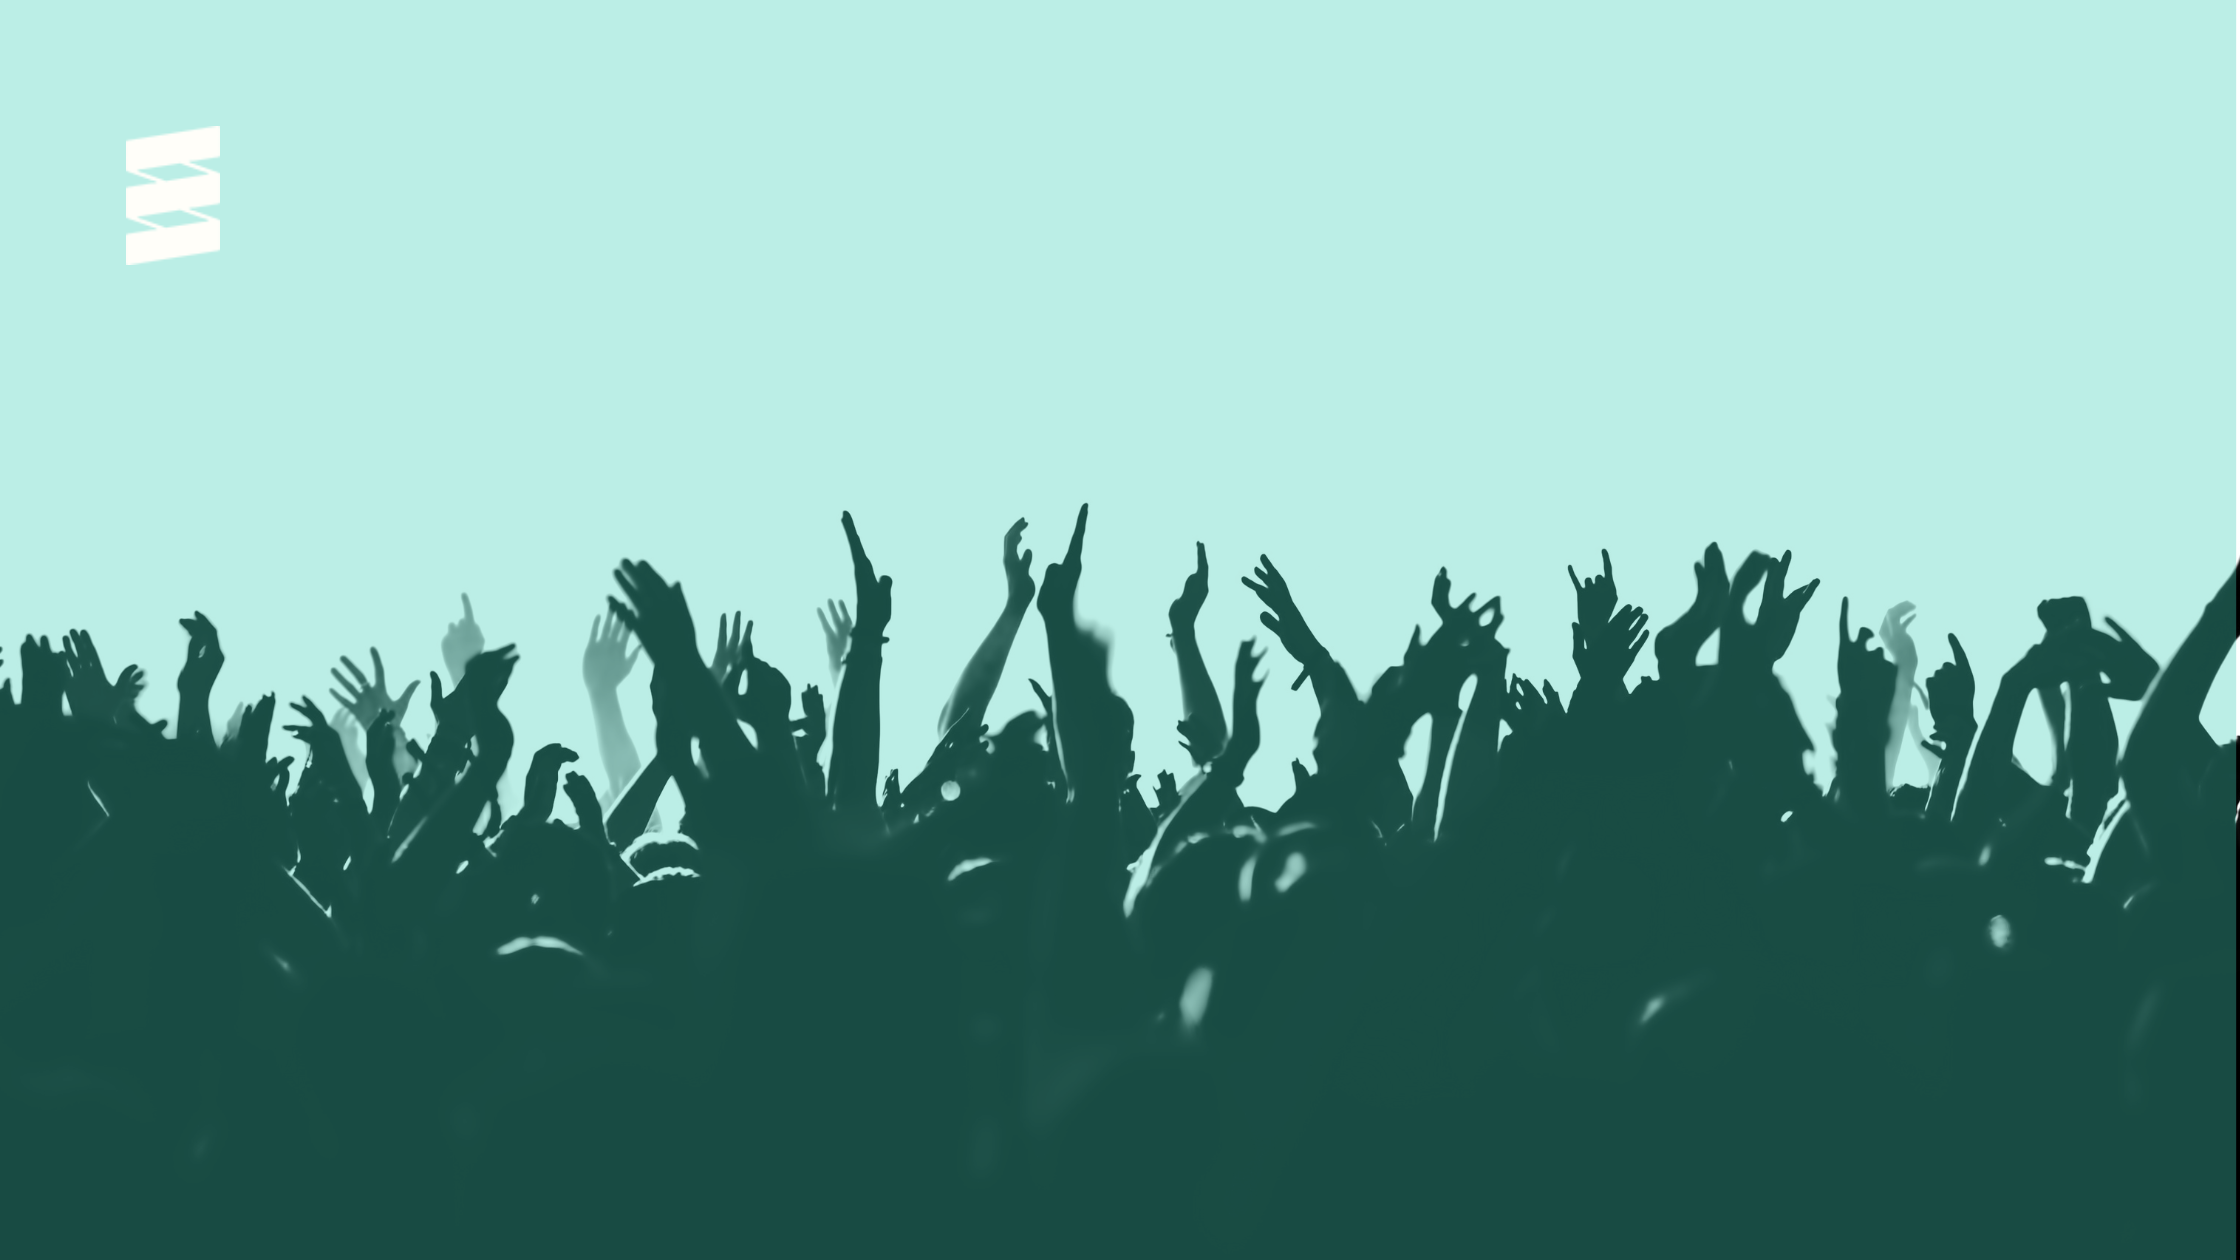
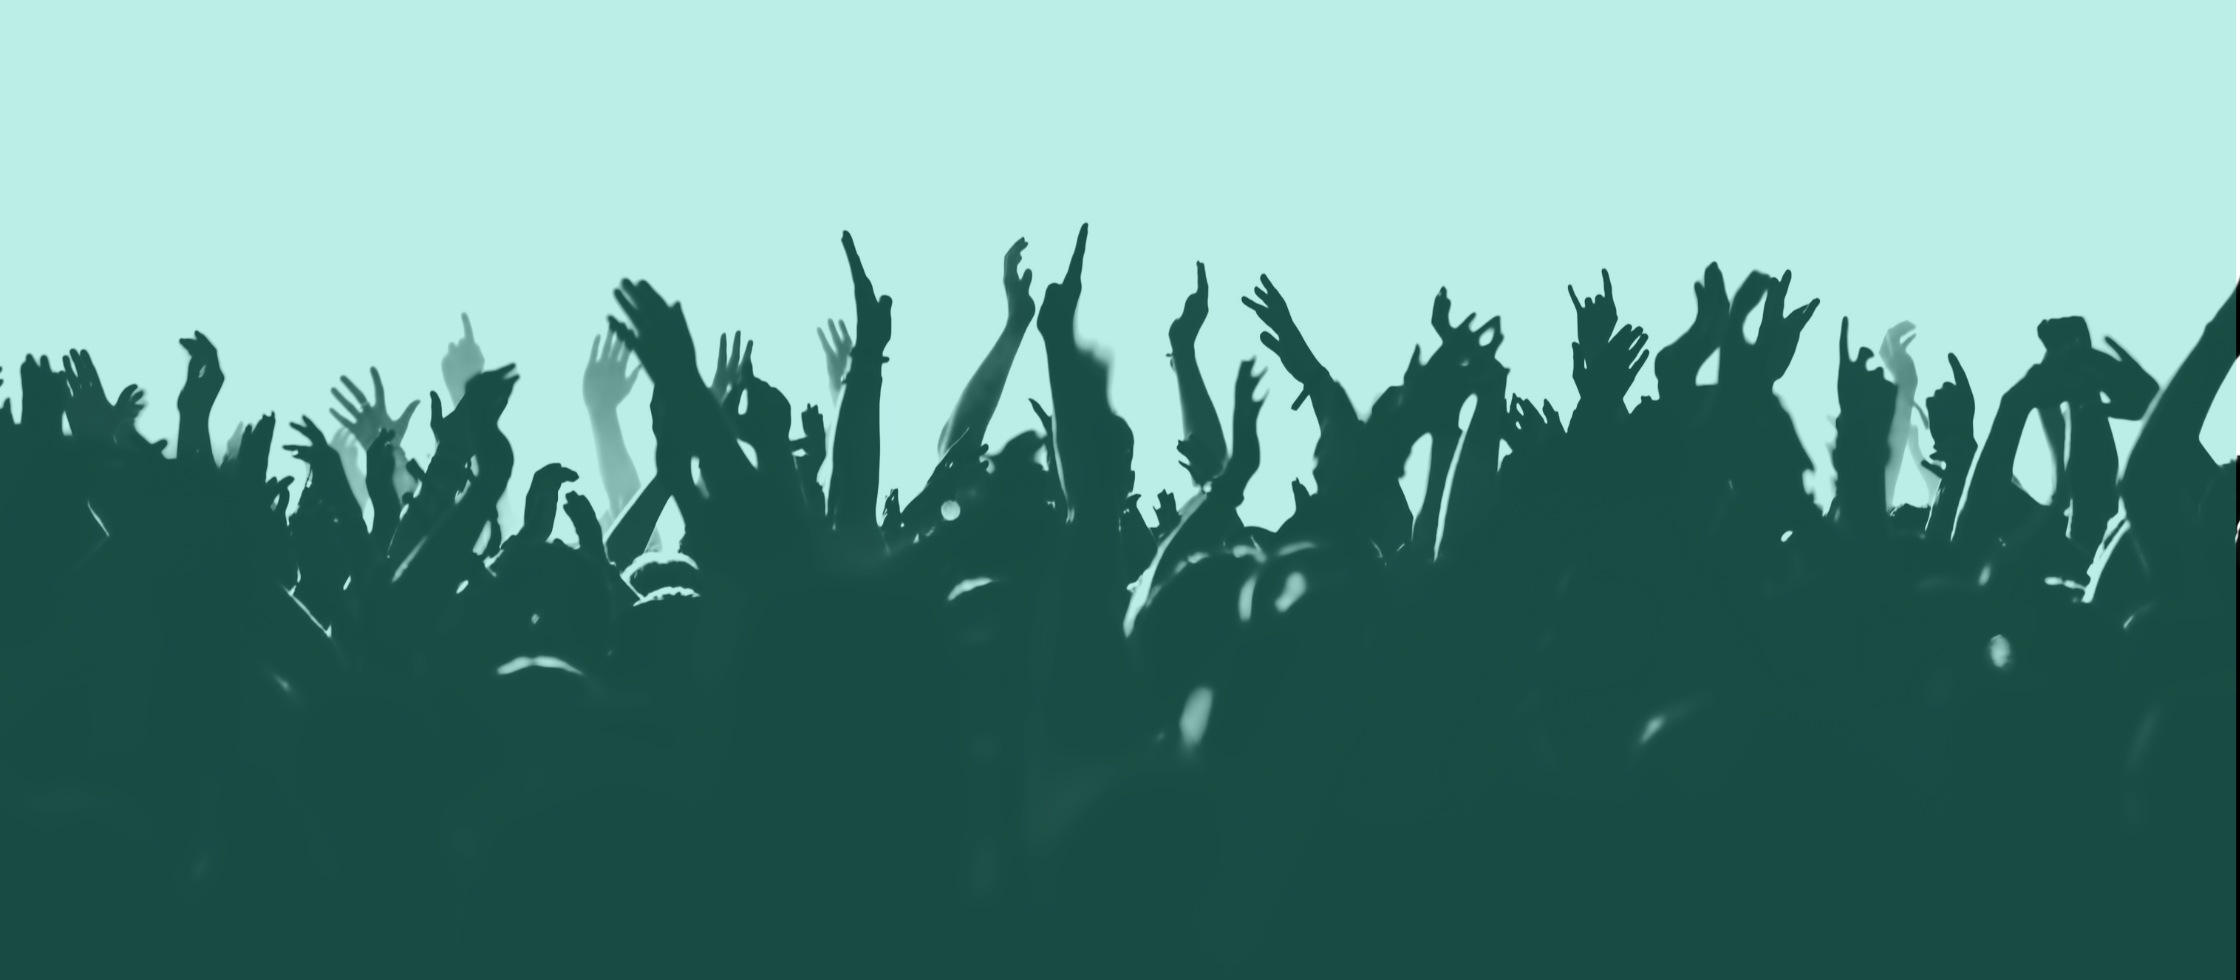
Ajout bannière (image)

diff --git a/Style.css b/Style.css
@@ -18,7 +18,6 @@ body {
     padding-left: 0;
 }
 
-
 .logo {
     height: 100%;
 }
@@ -52,8 +51,8 @@ body {
 .search-container {
     display: flex;
     align-items: center;
-    margin-left: auto; /* pousse la recherche tout à droite */
-    margin-right: 20px; /* espace entre la recherche et l'icône utilisateur */
+    margin-left: auto;
+    margin-right: 20px;
 }
 
 .search-container input {
@@ -98,7 +97,7 @@ body {
 
 .main-nav li {
     border-right: 1px solid black;
-    text-align: center; /* centrer le texte/lien */
+    text-align: center;
 }
 
 .main-nav li:first-child {
@@ -126,4 +125,8 @@ body {
     color: #006b6b;
 }
 
-
+.banniere img {
+    width: 100%;
+    max-height: 300px;
+    display: block;
+}

diff --git a/Accueil.html b/Accueil.html
@@ -7,6 +7,7 @@
 </head>
 <body>
 <header>
+
     <!-- Bandeau principal -->
     <div class="top-bar">
         <!-- Logo -->
@@ -43,6 +44,15 @@
             <li><a href="#">ESPACE PRESSE <span class="arrow">▼</span></a></li>
         </ul>
     </nav>
+
+    <section class="Introduction">
+        <!-- Bannière image -->
+        <div class="banniere">
+            <img src ="images/Banniere.png" alt="Bannière FAGE">
+        </div>
+
+
+    </section>
 </header>
 </body>
 </html>
